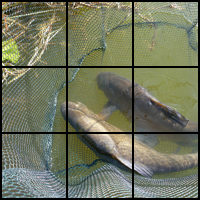
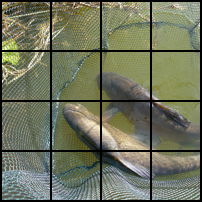
4x4

diff --git a/image_model/ak_samplenew.py b/image_model/ak_samplenew.py
@@ -57,6 +57,7 @@ def main(args):
     torch.set_grad_enabled(False)
     device = "cuda"
     
+    # (Template code remains unchanged)
     template = np.zeros((6,6))
     for i in range(6):
         for j in range(6):
@@ -91,8 +92,7 @@ def main(args):
 
     diffusion = create_diffusion(str(args.num_sampling_steps))
     if args.dataset == "met":
-        # MET dataloader give out cropped and stitched back images
-        dataset = MET(args.data_path,'test')
+        dataset = MET(args.data_path, 'test')
     elif args.dataset == "imagenet":
         dataset = ImageFolder(args.data_path, transform=transform)
     
@@ -105,7 +105,7 @@ def main(args):
         drop_last=True
     )
 
-    time_emb = torch.tensor(get_2d_sincos_pos_embed(8, 3)).unsqueeze(0).float().to(device)
+    time_emb = torch.tensor(get_2d_sincos_pos_embed(8, args.grid_size)).unsqueeze(0).float().to(device)
     time_emb_noise = torch.tensor(get_2d_sincos_pos_embed(8, 12)).unsqueeze(0).float().to(device)
     time_emb_noise = torch.randn_like(time_emb_noise)
     time_emb_noise = time_emb_noise.repeat(1,1,1)
@@ -122,6 +122,9 @@ def main(args):
         return sort_list
 
     abs_results = []
+    # For a variable grid, let G be the grid size.
+    G = args.grid_size
+
     for x in loader:
         if args.dataset == 'imagenet':
             x, _ = x
@@ -130,22 +133,24 @@ def main(args):
         
         if args.dataset == 'imagenet' and args.crop:
             centercrop = transforms.CenterCrop((64,64))
-            patchs = rearrange(x, 'b c (p1 h1) (p2 w1) -> b c (p1 p2) h1 w1', p1=3, p2=3, h1=96, w1=96)
+            patchs = rearrange(x, 'b c (p1 h1) (p2 w1) -> b c (p1 p2) h1 w1', 
+                               p1=G, p2=G, h1=args.image_size//G, w1=args.image_size//G)
             patchs = centercrop(patchs)
-            x = rearrange(patchs, 'b c (p1 p2) h1 w1 -> b c (p1 h1) (p2 w1)', p1=3, p2=3, h1=64, w1=64)
+            x = rearrange(patchs, 'b c (p1 p2) h1 w1 -> b c (p1 h1) (p2 w1)', 
+                          p1=G, p2=G, h1=args.image_size//G, w1=args.image_size//G)
         
-        # Generate the puzzles: split the image into 9 patches
-        indices = np.random.permutation(9)
+        # Generate the puzzles: split the image into GxG patches
+        indices = np.random.permutation(G * G)
         print("Random permutation indices:", indices)
         x = rearrange(x, 'b c (p1 h1) (p2 w1) -> b c (p1 p2) h1 w1', 
-                      p1=3, p2=3, h1=args.image_size//3, w1=args.image_size//3)
+                      p1=G, p2=G, h1=args.image_size//G, w1=args.image_size//G)
         
         # Save the patches before any permutation
-        patches_before = [x[0, :, i, :, :] for i in range(9)]
+        patches_before = [x[0, :, i, :, :] for i in range(G * G)]
         grid = torch.stack(patches_before)
-        save_image(grid, "debug_patches_before.png", nrow=3, normalize=True)
+        save_image(grid, "debug_patches_before.png", nrow=G, normalize=True)
         plt.figure(figsize=(4, 4))
-        plt.imshow(torchvision.utils.make_grid(grid, nrow=3, normalize=True).permute(1, 2, 0).cpu().numpy())
+        plt.imshow(torchvision.utils.make_grid(grid, nrow=G, normalize=True).permute(1, 2, 0).cpu().numpy())
         plt.title("Patches Before Permutation")
         plt.axis("off")
         plt.show()
@@ -153,18 +158,18 @@ def main(args):
         # Permute the patches
         x = x[:, :, indices, :, :]
         # Save scrambled patches for later visualization of the final puzzle
-        scrambled_patches = [x[0, :, i, :, :] for i in range(9)]
+        scrambled_patches = [x[0, :, i, :, :] for i in range(G * G)]
         grid = torch.stack(scrambled_patches)
-        save_image(grid, "debug_patches_after.png", nrow=3, normalize=True)
+        save_image(grid, "debug_patches_after.png", nrow=G, normalize=True)
         plt.figure(figsize=(4, 4))
-        plt.imshow(torchvision.utils.make_grid(grid, nrow=3, normalize=True).permute(1, 2, 0).cpu().numpy())
+        plt.imshow(torchvision.utils.make_grid(grid, nrow=G, normalize=True).permute(1, 2, 0).cpu().numpy())
         plt.title("Patches After Permutation")
         plt.axis("off")
         plt.show()
         
         # Reassemble the scrambled patches into the final scrambled image
         x = rearrange(x, 'b c (p1 p2) h1 w1 -> b c (p1 h1) (p2 w1)', 
-                      p1=3, p2=3, h1=args.image_size//3, w1=args.image_size//3)
+                      p1=G, p2=G, h1=args.image_size//G, w1=args.image_size//G)
         imshow_tensor(x[0], title="Final Scrambled Image")
         print("Scrambled image shape:", x.shape)
         
@@ -177,8 +182,10 @@ def main(args):
         
         for sample, img in zip(samples, x):
             print("Raw sample shape:", sample.shape)
+            # For the sample reordering, we use a downsampled patch size.
+            sample_patch_dim = args.image_size // (16 * G)  # For grid=3, 192//48=4
             sample = rearrange(sample, '(p1 h1 p2 w1) d -> (p1 p2) (h1 w1) d', 
-                                 p1=3, p2=3, h1=args.image_size//48, w1=args.image_size//48)
+                                 p1=G, p2=G, h1=sample_patch_dim, w1=sample_patch_dim)
             print("Rearranged sample shape:", sample.shape)
             sample = sample.mean(1)
             dist = pairwise_distances(sample.cpu().numpy(), time_emb[0].cpu().numpy(), metric='manhattan')
@@ -189,14 +196,13 @@ def main(args):
             
             # --- Final Puzzle Visualization ---
             # Reconstruct the final puzzle by reordering the scrambled patches using the predicted order.
-            # For each patch in scrambled_patches, place it at the position indicated by pred.
-            reconstructed_patches = [None] * 9
+            reconstructed_patches = [None] * (G * G)
             for i, pos in enumerate(pred):
                 reconstructed_patches[pos] = scrambled_patches[i]
             grid_reconstructed = torch.stack(reconstructed_patches)
-            save_image(grid_reconstructed, "grid_reconstructed.png", nrow=3, normalize=True)
+            save_image(grid_reconstructed, "grid_reconstructed.png", nrow=G, normalize=True)
             plt.figure(figsize=(4, 4))
-            plt.imshow(torchvision.utils.make_grid(grid_reconstructed, nrow=3, normalize=True).permute(1, 2, 0).cpu().numpy())
+            plt.imshow(torchvision.utils.make_grid(grid_reconstructed, nrow=G, normalize=True).permute(1, 2, 0).cpu().numpy())
             plt.title("Final Reconstructed Puzzle")
             plt.axis("off")
             plt.show()
@@ -219,6 +225,8 @@ if __name__ == "__main__":
     parser.add_argument("--num-sampling-steps", type=int, default=250)
     parser.add_argument("--seed", type=int, default=0)
     parser.add_argument("--ckpt", type=str, default="/cluster/home/muhamhz/JPDVT/image_model/results/009-imagenet-JPDVT-crop/checkpoints/2850000.pt", help="Default checkpoint path")
+    # New argument to set grid size (e.g., 3 for 3x3, 4 for 4x4, 5 for 5x5)
+    parser.add_argument("--grid-size", type=int, default=3, help="Grid size for the jigsaw puzzle (number of patches per row/column)")
     
     args = parser.parse_args()
 
@@ -229,7 +237,7 @@ if __name__ == "__main__":
     print(f"Using data path: {full_data_path}")
     print(f"Using checkpoint: {args.ckpt}")
 
-    # Pass full_data_path instead of args.data_path
+    # Pass full data path instead of args.data_path
     args.data_path = full_data_path
 
     main(args)
